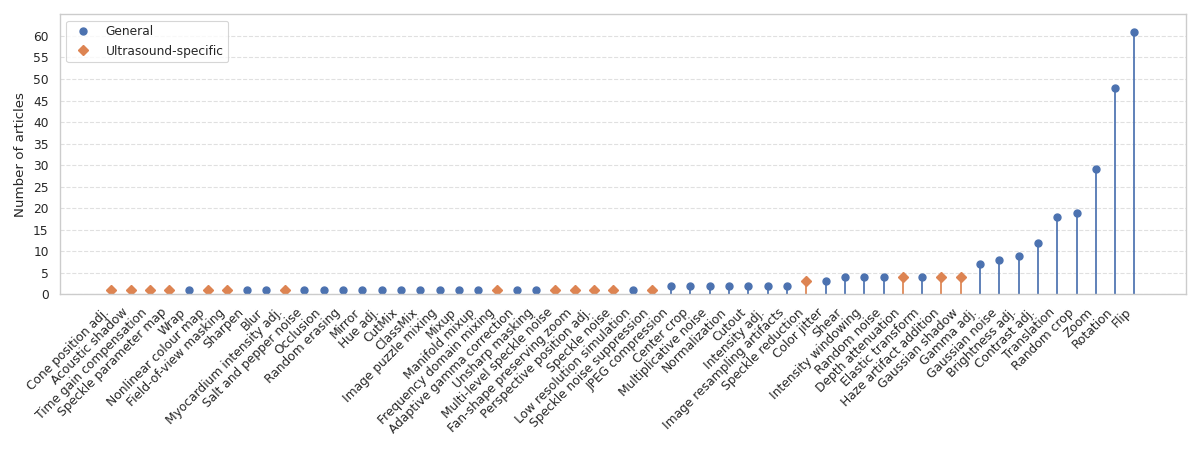
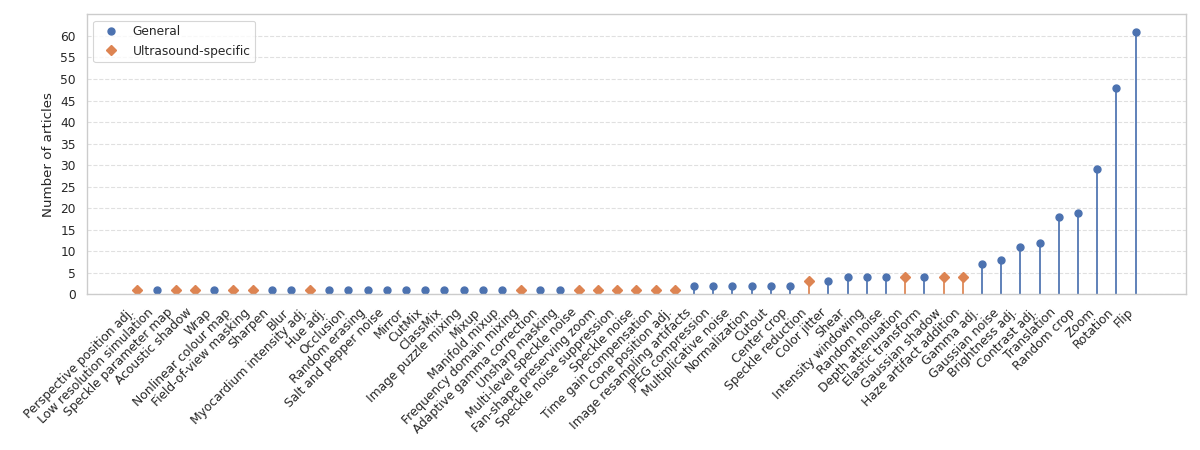
Group brightness and intensity adjustment together (synonyms).

diff --git a/scripts/results/literature_review.py b/scripts/results/literature_review.py
@@ -3,11 +3,13 @@
 
 import matplotlib.pyplot as plt
 import pandas as pd
+import seaborn as sns
 
 # %%
 # Load spreadsheet
-df = pd.read_excel("../Full-Text Ultrasound Articles Review.xlsx")
-df.drop(columns=["Publication Title", "DOI", "URL", "Conference Name"], inplace=True)
+df = pd.read_excel("../../Full-Text Ultrasound Articles Review.xlsx")
+df.drop(columns=["Publication Title", "DOI",
+        "URL", "Conference Name"], inplace=True)
 df.rename(
     columns={
         "Publication Year": "publication_year",
@@ -155,7 +157,8 @@ for augmentation in augmentations:
     if augmentation not in name_to_canonical_name:
         print(augmentation)
 
-print("Number of unique augmentations:", len(set(name_to_canonical_name.values())))
+print("Number of unique augmentations:", len(
+    set(name_to_canonical_name.values())))
 
 
 # %%
@@ -179,7 +182,8 @@ df["canonical_augmentations"] = df["augmentations"].apply(
 # %%
 # Count the number of uses of each augmentation
 augmentation_counts = (
-    df["canonical_augmentations"].str.split(";", expand=True).stack().value_counts()
+    df["canonical_augmentations"].str.split(
+        ";", expand=True).stack().value_counts()
 )
 
 for name, count in sorted(
@@ -200,6 +204,7 @@ canonical_name_to_group = {
     "translation_unspecified": "translation",
     "translation_vertical": "translation",
     "jitter": "translation",
+    "intensity_adjustment": "brightness_adjustment",
 }
 
 
@@ -363,7 +368,8 @@ short_display_name_map = {
     "shear": "Shear",
     "speckle_noise_addition_wang2022d": "Speckle noise",
     "speckle_parameter_map_augmentation_singla2022": "Speckle parameter map",
-    "speckle_reducing_anisotropic_diffusion_yu2002": "Speckle noise suppression",  # Used by Monkam et al. (2023)
+    # Used by Monkam et al. (2023)
+    "speckle_reducing_anisotropic_diffusion_yu2002": "Speckle noise suppression",
     "time_gain_compensation_singla2022": "Time gain compensation",
     "translation": "Translation",
     "unsharp_masking_monkam2023a": "Unsharp masking",
@@ -378,7 +384,6 @@ df["short_display_name"] = df["grouped_augmentations"].apply(
 
 # %%
 # Create a lollipop plot of the number of uses of each augmentation (group)
-import seaborn as sns
 
 sns.set_theme(style="whitegrid", context="paper")
 
@@ -495,14 +500,15 @@ plt.yticks(range(0, 65, 5))
 plt.ylim(0, 65)
 
 plt.tight_layout()
-plt.savefig("../figures/augmentation_use.png")
-plt.savefig("../figures/augmentation_use.pdf")
+plt.savefig("../../figures/augmentation_use.png")
+plt.savefig("../../figures/augmentation_use.pdf")
 plt.show()
 
 # %%
 # Create a pie chart of the augmentation counts
 augmentation_counts = (
-    df["grouped_augmentations"].str.split(";", expand=True).stack().value_counts()
+    df["grouped_augmentations"].str.split(
+        ";", expand=True).stack().value_counts()
 )
 
 plt.figure(figsize=(15, 12))
@@ -554,7 +560,8 @@ def count_augmentations(augmentations):
         return len(augmentations.split(";"))
 
 
-df["num_augmentations"] = df["grouped_augmentations"].apply(count_augmentations)
+df["num_augmentations"] = df["grouped_augmentations"].apply(
+    count_augmentations)
 
 
 # %%
@@ -576,36 +583,29 @@ plt.show()
 articles_per_year = df.groupby("publication_year").size()
 none_per_year = df[df["none"]].groupby("publication_year").size()
 rotation_per_year = df[df["rotation"]].groupby("publication_year").size()
-horizontal_flip_per_year = df[df["flip_horizontal"]].groupby("publication_year").size()
+flip_per_year = df[df["flip"]].groupby(
+    "publication_year").size()
 resize_per_year = df[df["resize"]].groupby("publication_year").size()
 random_crop_per_year = df[df["random_crop"]].groupby("publication_year").size()
-vertical_flip_per_year = df[df["flip_vertical"]].groupby("publication_year").size()
-translation_per_year = (
-    df[
-        df["translation_unspecified"]
-        | df["translation_horizontal"]
-        | df["translation_vertical"]
-    ]
-    .groupby("publication_year")
-    .size()
-)
+translation_per_year = df[df["translation"]].groupby("publication_year").size()
 contrast_adjustment_per_year = (
     df[df["contrast_adjustment"]].groupby("publication_year").size()
 )
 brightness_adjustment_per_year = (
     df[df["brightness_adjustment"]].groupby("publication_year").size()
 )
-gaussian_noise_per_year = df[df["gaussian_noise"]].groupby("publication_year").size()
+gaussian_noise_per_year = df[df["gaussian_noise"]
+                             ].groupby("publication_year").size()
 gamma_adjustment_per_year = (
     df[df["gamma_adjustment"]].groupby("publication_year").size()
 )
 
 none_per_year.plot(kind="line", figsize=(12, 12), label="None")
 rotation_per_year.plot(kind="line", figsize=(12, 12), label="Rotation")
-horizontal_flip_per_year.plot(kind="line", figsize=(12, 12), label="Horizontal flip")
+flip_per_year.plot(
+    kind="line", figsize=(12, 12), label="Horizontal flip")
 resize_per_year.plot(kind="line", figsize=(12, 12), label="Resize")
 random_crop_per_year.plot(kind="line", figsize=(12, 12), label="Random crop")
-vertical_flip_per_year.plot(kind="line", figsize=(12, 12), label="Vertical flip")
 translation_per_year.plot(kind="line", figsize=(12, 12), label="Translation")
 contrast_adjustment_per_year.plot(
     kind="line", figsize=(12, 12), label="Contrast adjustment"
@@ -613,8 +613,10 @@ contrast_adjustment_per_year.plot(
 brightness_adjustment_per_year.plot(
     kind="line", figsize=(12, 12), label="Brightness adjustment"
 )
-gaussian_noise_per_year.plot(kind="line", figsize=(12, 12), label="Gaussian noise")
-gamma_adjustment_per_year.plot(kind="line", figsize=(12, 12), label="Gamma adjustment")
+gaussian_noise_per_year.plot(
+    kind="line", figsize=(12, 12), label="Gaussian noise")
+gamma_adjustment_per_year.plot(
+    kind="line", figsize=(12, 12), label="Gamma adjustment")
 
 
 plt.legend()
